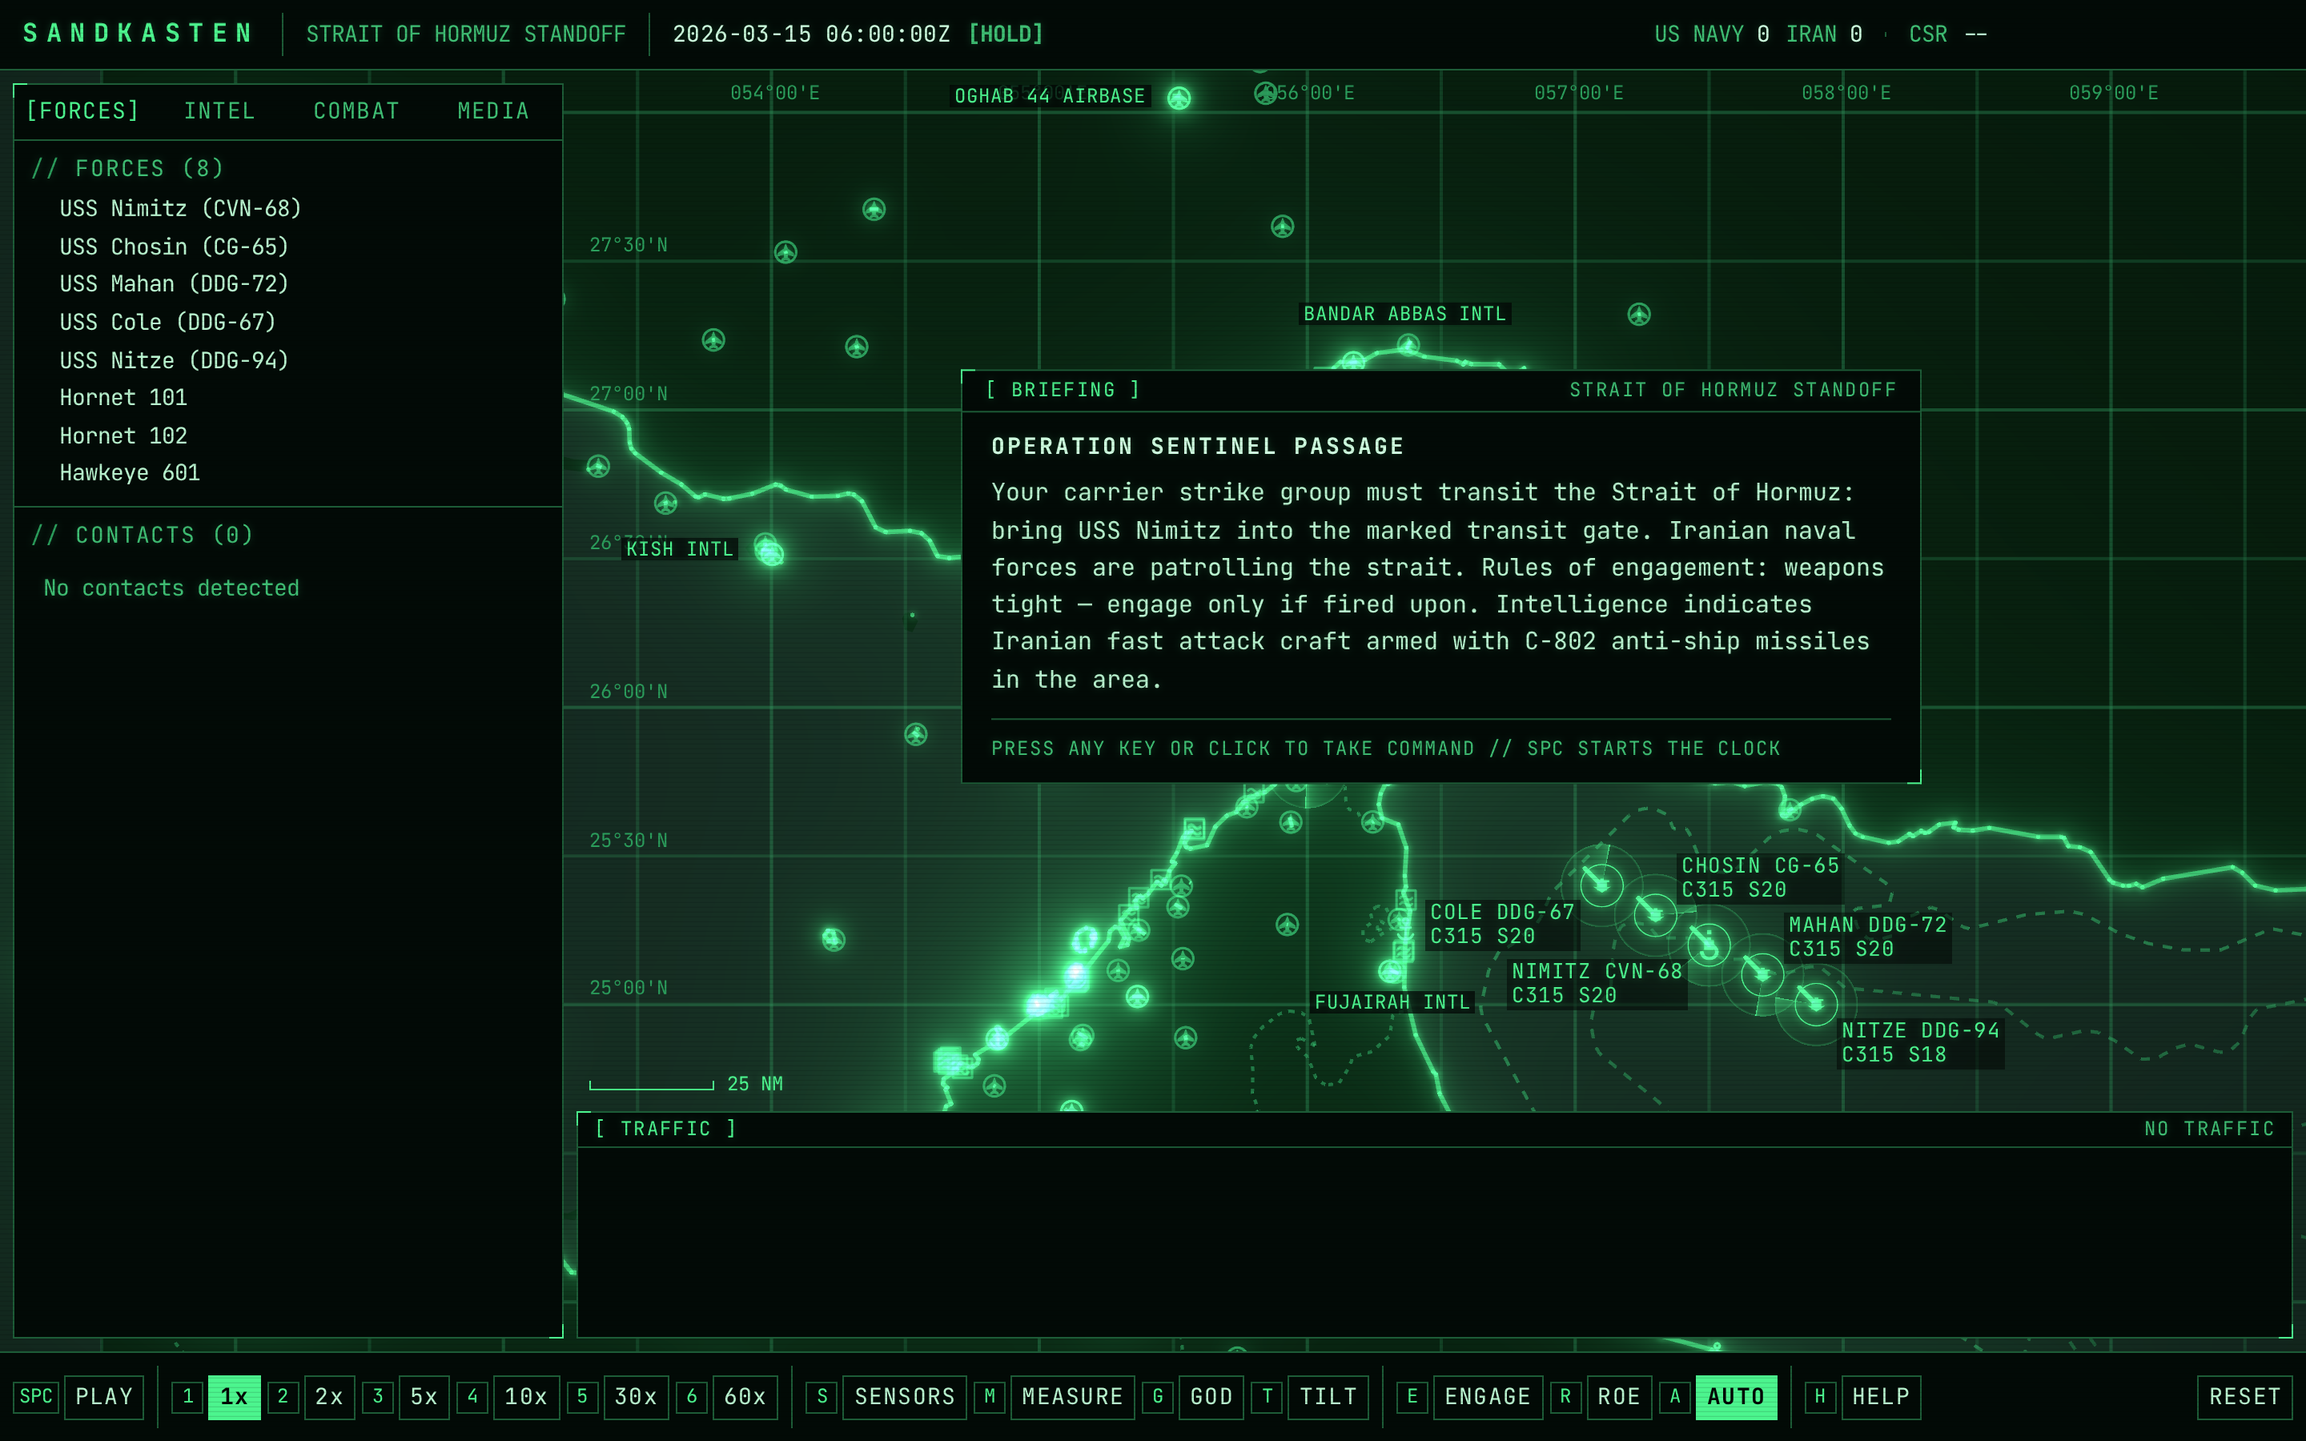
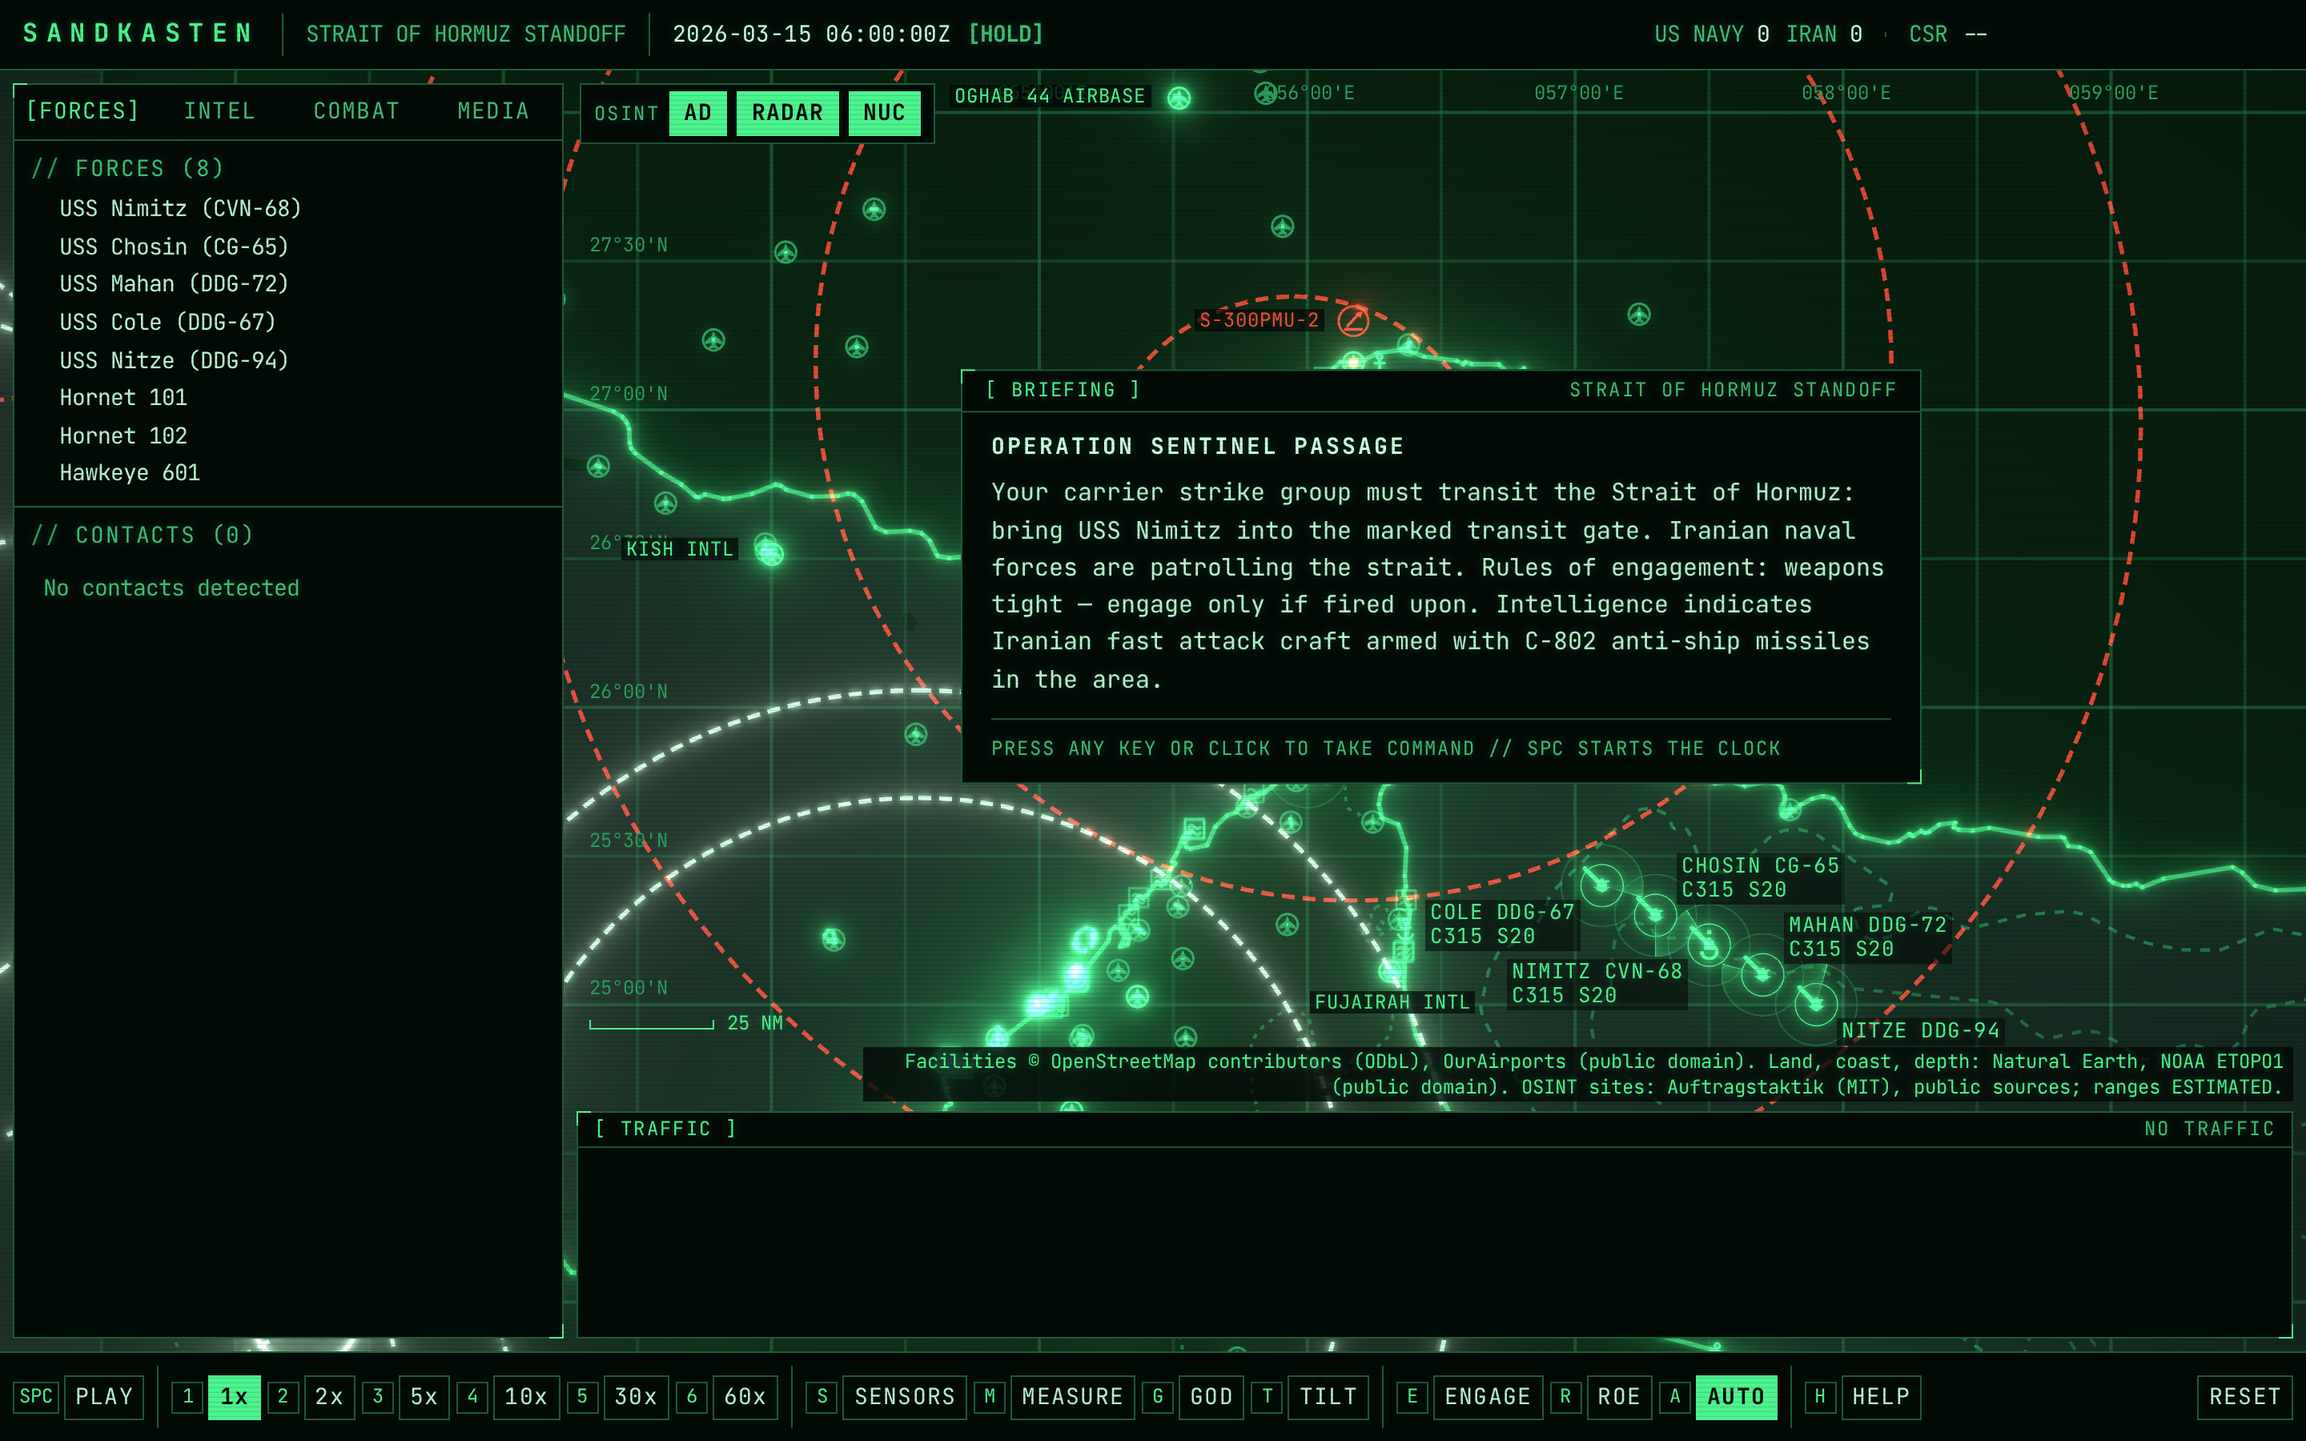
OSINT: fix map layer build race, add map and snapshot e2e, README, recaptured verification frames
OsintLayer now also builds on idle (isStyleLoaded is false while tiles stream, so the
rings never appeared on the MapLibre map). Plot scale bar moved above the longer credit line.

diff --git a/tests/sand-osint-1-rings.spec.ts b/tests/sand-osint-1-rings.spec.ts
@@ -6,49 +6,46 @@ import { test, expect, type Page } from "@playwright/test";
  * Run with SAND_E2E_GPU=1 (the plot is WebGL-heavy).
  */
 
-type Plot = {
+type OsintPlot = {
+  drawnTracks(): { units: number; contacts: number };
   drawnOsint(): { sites: number; rings: number; labels: number; total: number };
   osintScreen(id: string): { x: number; y: number } | null;
   focusOsint(id: string, dist?: number): void;
   view(): { dist: number };
 };
-declare global {
-  interface Window {
-    __sandPlot?: Plot;
-  }
-}
+type W = { __sandPlot?: OsintPlot };
 
 async function openPlot(page: Page) {
   await page.goto("/play");
-  await page.waitForFunction(() => !!window.__sandPlot, null, { timeout: 60_000 });
+  await page.waitForFunction(() => !!(window as unknown as W).__sandPlot, null, { timeout: 60_000 });
   await page.getByTestId("briefing").click({ timeout: 10_000 }).catch(() => {});
-  await page.waitForFunction(() => (window.__sandPlot?.drawnOsint().sites ?? 0) > 0, null, { timeout: 15_000 });
+  await page.waitForFunction(() => ((window as unknown as W).__sandPlot?.drawnOsint().sites ?? 0) > 0, null, { timeout: 15_000 });
 }
 
 test.describe("SAND-OSINT-1 /play plot", () => {
   test("rings render for AD and radar sites; layer toggles hide and show them", async ({ page }) => {
     await openPlot(page);
-    const d = await page.evaluate(() => window.__sandPlot!.drawnOsint());
+    const d = await page.evaluate(() => (window as unknown as W).__sandPlot!.drawnOsint());
     expect(d.total).toBe(14);
     expect(d.sites).toBe(14);
     // 800 km cap: the 3000 km Sepehr and 1000 km TPY-2 rings wait for a selection
     expect(d.rings).toBeGreaterThanOrEqual(10);
     await page.getByTestId("plot-toggle-osint-ad").click();
-    await expect.poll(() => page.evaluate(() => window.__sandPlot!.drawnOsint().sites)).toBe(5);
+    await expect.poll(() => page.evaluate(() => (window as unknown as W).__sandPlot!.drawnOsint().sites)).toBe(5);
     await page.getByTestId("plot-toggle-osint-radar").click();
     await page.getByTestId("plot-toggle-osint-nuclear").click();
-    await expect.poll(() => page.evaluate(() => window.__sandPlot?.drawnOsint().sites ?? 0)).toBe(0);
+    await expect.poll(() => page.evaluate(() => (window as unknown as W).__sandPlot?.drawnOsint().sites ?? 0)).toBe(0);
     await page.getByTestId("plot-toggle-osint-ad").click();
-    await expect.poll(() => page.evaluate(() => window.__sandPlot!.drawnOsint().sites)).toBe(9);
+    await expect.poll(() => page.evaluate(() => (window as unknown as W).__sandPlot!.drawnOsint().sites)).toBe(9);
   });
 
   test("clicking an S-300 site opens the panel with the ESTIMATED range; X closes it", async ({ page }) => {
     await openPlot(page);
-    await page.evaluate(() => window.__sandPlot!.focusOsint("ad-ir-s300-bandar-abbas", 60));
-    await expect.poll(() => page.evaluate(() => window.__sandPlot!.view().dist), { timeout: 10_000 }).toBeLessThan(80);
+    await page.evaluate(() => (window as unknown as W).__sandPlot!.focusOsint("ad-ir-s300-bandar-abbas", 60));
+    await expect.poll(() => page.evaluate(() => (window as unknown as W).__sandPlot!.view().dist), { timeout: 10_000 }).toBeLessThan(80);
     await page.waitForTimeout(2500);
     const host = (await page.getByTestId("tactical-plot").boundingBox())!;
-    const s = (await page.evaluate(() => window.__sandPlot!.osintScreen("ad-ir-s300-bandar-abbas")))!;
+    const s = (await page.evaluate(() => (window as unknown as W).__sandPlot!.osintScreen("ad-ir-s300-bandar-abbas")))!;
     await page.mouse.click(host.x + s.x, host.y + s.y);
     const panel = page.getByTestId("osint-panel");
     await expect(panel).toBeVisible();
@@ -75,5 +72,54 @@ test.describe("SAND-OSINT-1 MapLibre map", () => {
     for (const k of ["ad", "radar", "nuclear"]) await expect(page.getByTestId(`map-toggle-osint-${k}`)).toBeVisible();
     await page.getByTestId("map-toggle-osint-ad").click();
     await page.getByTestId("map-toggle-osint-ad").click();
+  });
+
+  test("the map builds OSINT ring and symbol layers; the AD toggle removes AD features", async ({ page }) => {
+    type M = { getLayer(i: string): unknown; querySourceFeatures(s: string): { properties: Record<string, unknown> }[] };
+    const count = (layer: string) =>
+      page.evaluate((l) => {
+        const m = (window as unknown as { __sandMap: M }).__sandMap;
+        return m.getLayer("osint-rings-line-est") ? m.querySourceFeatures("osint-sites-src").filter((f) => f.properties.layer === l).length : -1;
+      }, layer);
+    await page.goto("/");
+    await page.waitForFunction(() => !!(window as unknown as { __sandMap?: M }).__sandMap, null, { timeout: 30_000 });
+    await expect.poll(() => count("ad"), { timeout: 30_000 }).toBeGreaterThanOrEqual(9);
+    expect(await count("radar")).toBeGreaterThanOrEqual(3);
+    await page.getByTestId("map-toggle-osint-ad").click();
+    await expect.poll(() => count("ad"), { timeout: 10_000 }).toBe(0);
+    await page.getByTestId("map-toggle-osint-ad").click();
+    await expect.poll(() => count("ad"), { timeout: 10_000 }).toBeGreaterThanOrEqual(9);
+  });
+});
+
+test.describe("SAND-OSINT-1 snapshot scenario", () => {
+  test("/play?scenario=snapshot opens the committed ADS-B snapshot offline and runs", async ({ page }) => {
+    test.setTimeout(90_000);
+    const external: string[] = [];
+    page.on("request", (r) => {
+      const u = new URL(r.url());
+      if (/adsb\.lol|aisstream/.test(u.hostname)) external.push(r.url());
+    });
+    await page.goto("/play?scenario=snapshot");
+    await page.waitForFunction(() => !!(window as unknown as W).__sandPlot, null, { timeout: 60_000 });
+    await page.getByTestId("briefing").click({ timeout: 10_000 }).catch(() => {});
+    await expect(page.getByTestId("terminal-root")).toContainText(/ADS-B|SNAPSHOT/i);
+    await page.keyboard.press("g");
+    await expect.poll(() => page.evaluate(() => (window as unknown as W).__sandPlot!.drawnTracks().units), { timeout: 20_000 }).toBeGreaterThan(20);
+    await page.waitForFunction(() => ((window as unknown as W).__sandPlot?.drawnOsint().sites ?? 0) > 0, null, { timeout: 15_000 });
+    const t0 = await page.getByTestId("terminal-root").innerText();
+    await page.getByTestId("sim-toggle-pause").click();
+    await page.getByTestId("sim-speed").filter({ hasText: "60x" }).click();
+    await expect
+      .poll(async () => (await page.getByTestId("terminal-root").innerText()).match(/\d{4}-\d{2}-\d{2} \d{2}:\d{2}:\d{2}Z/)?.[0], { timeout: 20_000 })
+      .not.toBe(t0.match(/\d{4}-\d{2}-\d{2} \d{2}:\d{2}:\d{2}Z/)?.[0]);
+    expect(external).toEqual([]);
+  });
+
+  test("the editor SNAPSHOT button opens the same scenario", async ({ page }) => {
+    await page.goto("/editor");
+    await page.waitForSelector("canvas", { timeout: 30_000 });
+    await page.getByTestId("editor-snapshot-open").click();
+    await expect(page.getByTestId("editor-snapshot-status")).toContainText("Opened 2026-11-06T19:02:40Z");
   });
 });

diff --git a/unit/osint-import.test.ts b/unit/osint-import.test.ts
@@ -61,7 +61,7 @@ describe("OSINT import: helpers", () => {
     const otherSystem = adFromAuftragstaktik({ ...atAd, id: "ts", system: "Tor-M1" });
     const out = dedupeSites([a, b, far, otherSystem]);
     expect(out.map((s) => s.id)).toEqual([a.id, far.id, otherSystem.id]);
-    expect(out[0].citations.map((c) => c.label)).toContain("Extra source");
+    expect(out[0].citations.map((c: { label: string }) => c.label)).toContain("Extra source");
   });
 
   test("curated site resolves a facility anchor, takes its range from the table, and rejects unknown anchors", () => {

diff --git a/src/components/map/OsintLayer.tsx b/src/components/map/OsintLayer.tsx
@@ -229,10 +229,13 @@ export function OsintLayer({ map, sites, selectedId }: OsintLayerProps) {
       if (map.getSource(SRC_SITES)) return;
       build(map, sitesRef.current, selRef.current);
     };
+    // isStyleLoaded() is false while tiles stream in and style.load may already have fired, so also build on the next idle.
     if (map.isStyleLoaded()) ensure();
+    else map.once("idle", ensure);
     map.on("style.load", ensure);
     return () => {
       map.off("style.load", ensure);
+      map.off("idle", ensure);
       teardown(map);
     };
   }, [map]);

diff --git a/src/components/map/TacticalMap.tsx b/src/components/map/TacticalMap.tsx
@@ -187,6 +187,7 @@ export function TacticalMap({
     });
 
     mapRef.current = map;
+    (window as unknown as { __sandMap?: maplibregl.Map }).__sandMap = map;
 
     return () => {
       map.remove();

diff --git a/src/app/play/terminal.css b/src/app/play/terminal.css
@@ -507,7 +507,7 @@
 .tx-scale {
   position: absolute;
   left: 368px;
-  bottom: 214px;
+  bottom: 252px;
   z-index: 5;
   display: flex;
   align-items: center;

diff --git a/README.md b/README.md
@@ -61,12 +61,18 @@ Shares its map renderer and NATO symbology with [Auftragstaktik](https://github.
 - Platform manual at `/database`: 16 Hormuz platforms (ships and aircraft) with real open-license photos and credits, sourced specs, plain-English "what it is / how it is used / typical missions", sensors, weapons, defenses and a numbered bibliography. Records live in `src/data/platforms/records/`; the simulation reads them through `src/lib/platforms/lookup.ts`. Estimation methods are in `src/data/platforms/METHODS.md`. Nothing is copied from CMO.
 
 ### Real-world map (default `/play` plot, plus the MapLibre views `/`, `/editor`, `/play?map=legacy`)
-- Real geotagged facilities for the Hormuz theater: 869 sites (192 airfields, 347 heliports, 12 naval bases, 44 ports, 274 military areas) and 207 runways drawn to scale (real length and width). Built by `scripts/build-facilities.mjs` from OurAirports (public domain) and OpenStreetMap (ODbL) into `data/facilities/hormuz.json`; credits in `data/facilities/ATTRIBUTION.md` and on the map
+- Real geotagged facilities for the Hormuz theater: 871 sites (192 airfields, 347 heliports, 13 naval bases, 45 ports, 274 military areas) and 198 runways drawn to scale (real length and width). Built by `scripts/build-facilities.mjs` from OurAirports (public domain) and OpenStreetMap (ODbL) into `data/facilities/hormuz.json`; credits in `data/facilities/ATTRIBUTION.md` and on the map
 - Distinct symbols per kind (airfield, heliport, naval base, port), military in amber and civil in grey; click one for a terminal-style detail panel (codes, elevation, runways with headings, surface and lighting, units based there). Selecting a unit shows its HOME BASE in the unit panel, with a link that jumps to the facility
 - Units can carry a `homeBase` (facility and runway end). The simulation has no takeoff or landing model, so a unit based on a runway simply starts on its threshold (the alert F-4 at Havadarya)
 - Map toggles top-left: FACILITIES, GLOBE (globe when zoomed out, flat at tactical zoom), TERRAIN (AWS Terrain Tiles relief and hillshade), SAT (EOX Sentinel-2 cloudless, 2018, CC BY-NC-SA 4.0; the credit and licence show in the status bar and the map attribution while SAT is on). The dark basemap stays the default
 - Base map: OpenFreeMap vector tiles (OpenStreetMap data, ODbL; OpenMapTiles schema). No account, no API key, no usage cap. The credit sits in the status bar and the map attribution control
 - The default `/play` Three.js plot draws the same facilities in its phosphor style: symbols tiered by importance, runways to true length and width when zoomed in (at least 2 px wide when zoomed out), area outlines at close range, collision-checked name labels and runway-end designators. Click a symbol or runway for the detail panel; the plot makes no tile requests
+
+### OSINT layers and real-world snapshots
+- Air defence, radar and nuclear sites for the Hormuz bbox: 9 AD sites, 3 radars, 2 nuclear sites, drawn with engagement or detection range rings in the default `/play` plot and in the MapLibre views. Click a site for its panel (system, side, range, ESTIMATED flag, platform-DB match, citations). Per-layer toggles AD, RADAR and NUC; rings of 800 km or less always draw, the very large ones (Sepehr 3000 km, AN/TPY-2 1000 km) draw when selected. Dashed rings are ESTIMATED, solid ones come from the platform database
+- Data comes from [Auftragstaktik](https://github.com/lerugray/auftragstaktik) (MIT, commit 7c5904e, copied into `data/osint/raw/` so the import runs offline) plus a curated supplement, because Auftragstaktik holds no air defence inside the Hormuz box. Supplement placements are anchored to real facilities and are scenario assumptions. Credits and licence text in `data/osint/ATTRIBUTION.md`. `npm run data:osint` regenerates `data/osint/hormuz.json` and the OSINT fields in `data/facilities/hormuz.json` (one record per real place, no duplicates)
+- The platform database has no ground SAM or radar yet, so all 12 AD/radar sites are ESTIMATED misses; the importer matches them automatically once records exist. The platform database is not edited by the import
+- Snapshot tool: `node scripts/snapshot-seed.mjs` (or SNAPSHOT in the editor) fetches live ADS-B from adsb.lol (keyless, ODbL; the tool limits itself to 1 request per second), maps military types found in the platform database to units and turns everything else into UNKNOWN contacts, then writes a scenario file the editor opens. AISStream needs an API key and is skipped; no key is stored in the repo. One example, fetched 2026-11-06T19:02:40Z, is committed in `data/snapshots/` and opens offline at `/play?scenario=snapshot`
 
 ### Simulation
 - Real-time simulation at `/play`
@@ -215,7 +221,8 @@ sandkasten/
 | **Platform database** | Own sourced records, photos and `/database` viewer for the Hormuz roster | Built, awaiting Ray's review; full roster is a later job |
 | **Remaining gaps** | Fuel consumption, aircraft altitude, game save/load | Next |
 | **WeGo Multiplayer** | WebSocket sync, turn system, lobby, server-side fog of war | Planned |
-| **Community** | Scenario sharing, Auftragstaktik OSINT import, campaign mode | Planned |
+| **OSINT** | Hormuz AD, radar and nuclear sites with true ranges, ADS-B snapshot to scenario | Built, awaiting Ray's review (AIS snapshots need a key, skipped) |
+| **Community** | Scenario sharing, campaign mode | Planned |
 
 See [TASKS.md](TASKS.md) for the full breakdown and [GDD.md](GDD.md) for design details.
 
